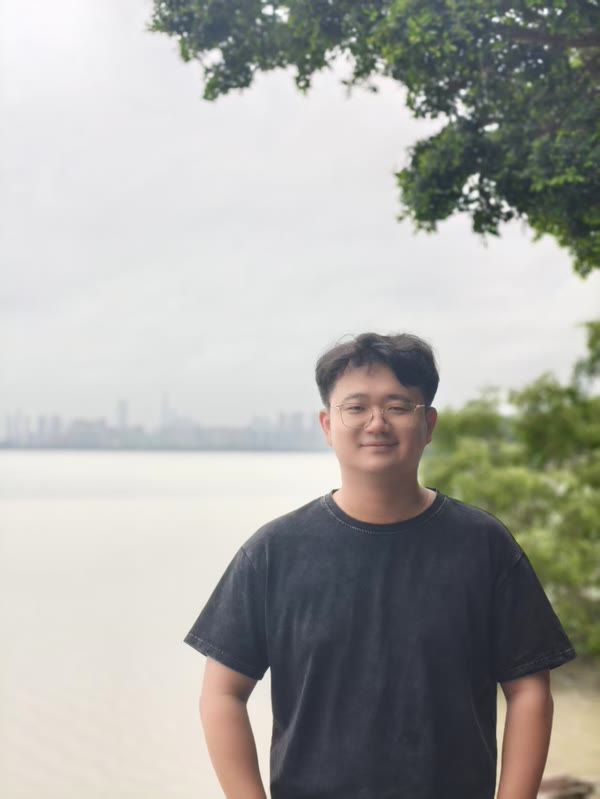
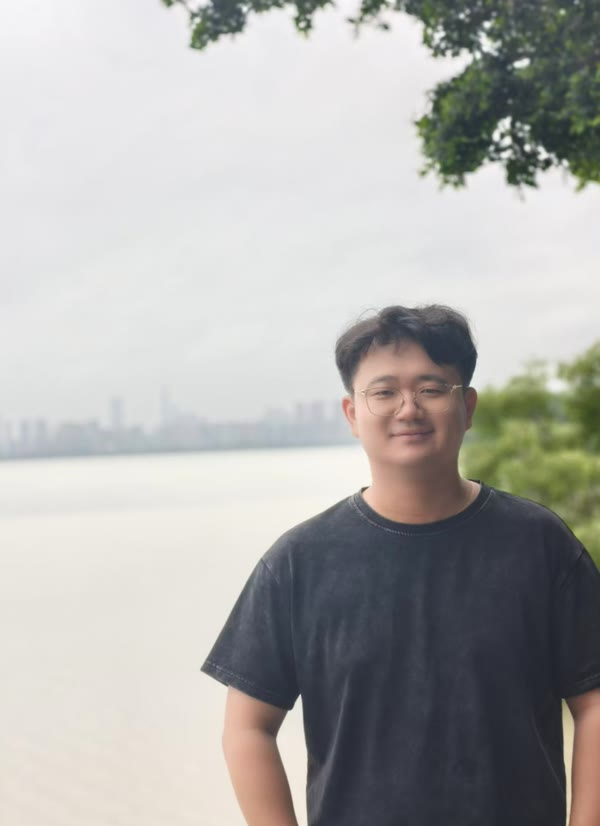
fix: level photo horizon + shift subject right-down; label M.Sc. as in progress (trilingual)

Changed region(s): [[0.0, 0.3605, 1.0, 1.0], [0.24, 0.0, 1.0, 0.3605], [0.3, 0.6308, 0.57, 1.0]]

diff --git a/script.js b/script.js
@@ -9,6 +9,7 @@
   // ─── Translations ──────────────────────────────────────
   const T = {
     de: {
+      'about-tag-msc': 'KIT · M.Sc. EEIT (laufend)',
       'meta-desc': 'Ben He — M.Sc. EEIT @ KIT. Spezialisiert auf KI, Robotik und intelligente Automatisierung. Erfahrung in Digital Twin, ROS 2, LLM-Agenten und Full-Stack-Entwicklung.',
       'nav-home': 'Zur Startseite',
       'nav-main': 'Hauptnavigation',
@@ -95,6 +96,7 @@
       'back-top': 'Zurück nach oben',
     },
     en: {
+      'about-tag-msc': 'KIT · M.Sc. EEIT (in progress)',
       'meta-desc': 'Ben He — M.Sc. EEIT @ KIT. Specialized in AI, robotics and intelligent automation. Experience in digital twins, ROS 2, LLM agents and full-stack development.',
       'nav-home': 'Home',
       'nav-main': 'Main navigation',
@@ -181,6 +183,7 @@
       'back-top': 'Back to top',
     },
     zh: {
+      'about-tag-msc': 'KIT · M.Sc. EEIT 在读',
       'meta-desc': 'Ben He — KIT EEIT 硕士。专注人工智能、机器人和智能自动化。具备数字孪生、ROS 2、LLM Agent 和全栈开发经验。',
       'nav-home': '返回首页',
       'nav-main': '主导航',

diff --git a/index.html b/index.html
@@ -91,7 +91,7 @@
               <picture><source srcset="portrait.webp" type="image/webp"><img src="portrait.jpg" data-i18n-alt="portrait-alt" alt="Portrait von Ben He"></picture>
             </div>
             <div class="about-badges">
-              <span class="tag tag-skill">KIT · M.Sc. EEIT</span>
+              <span class="tag tag-skill" data-i18n="about-tag-msc">KIT · M.Sc. EEIT (laufend)</span>
               <span class="tag tag-skill">Python / ROS 2</span>
               <span class="tag tag-skill">AI Agent</span>
               <span class="tag tag-skill">Digital Twin</span>
